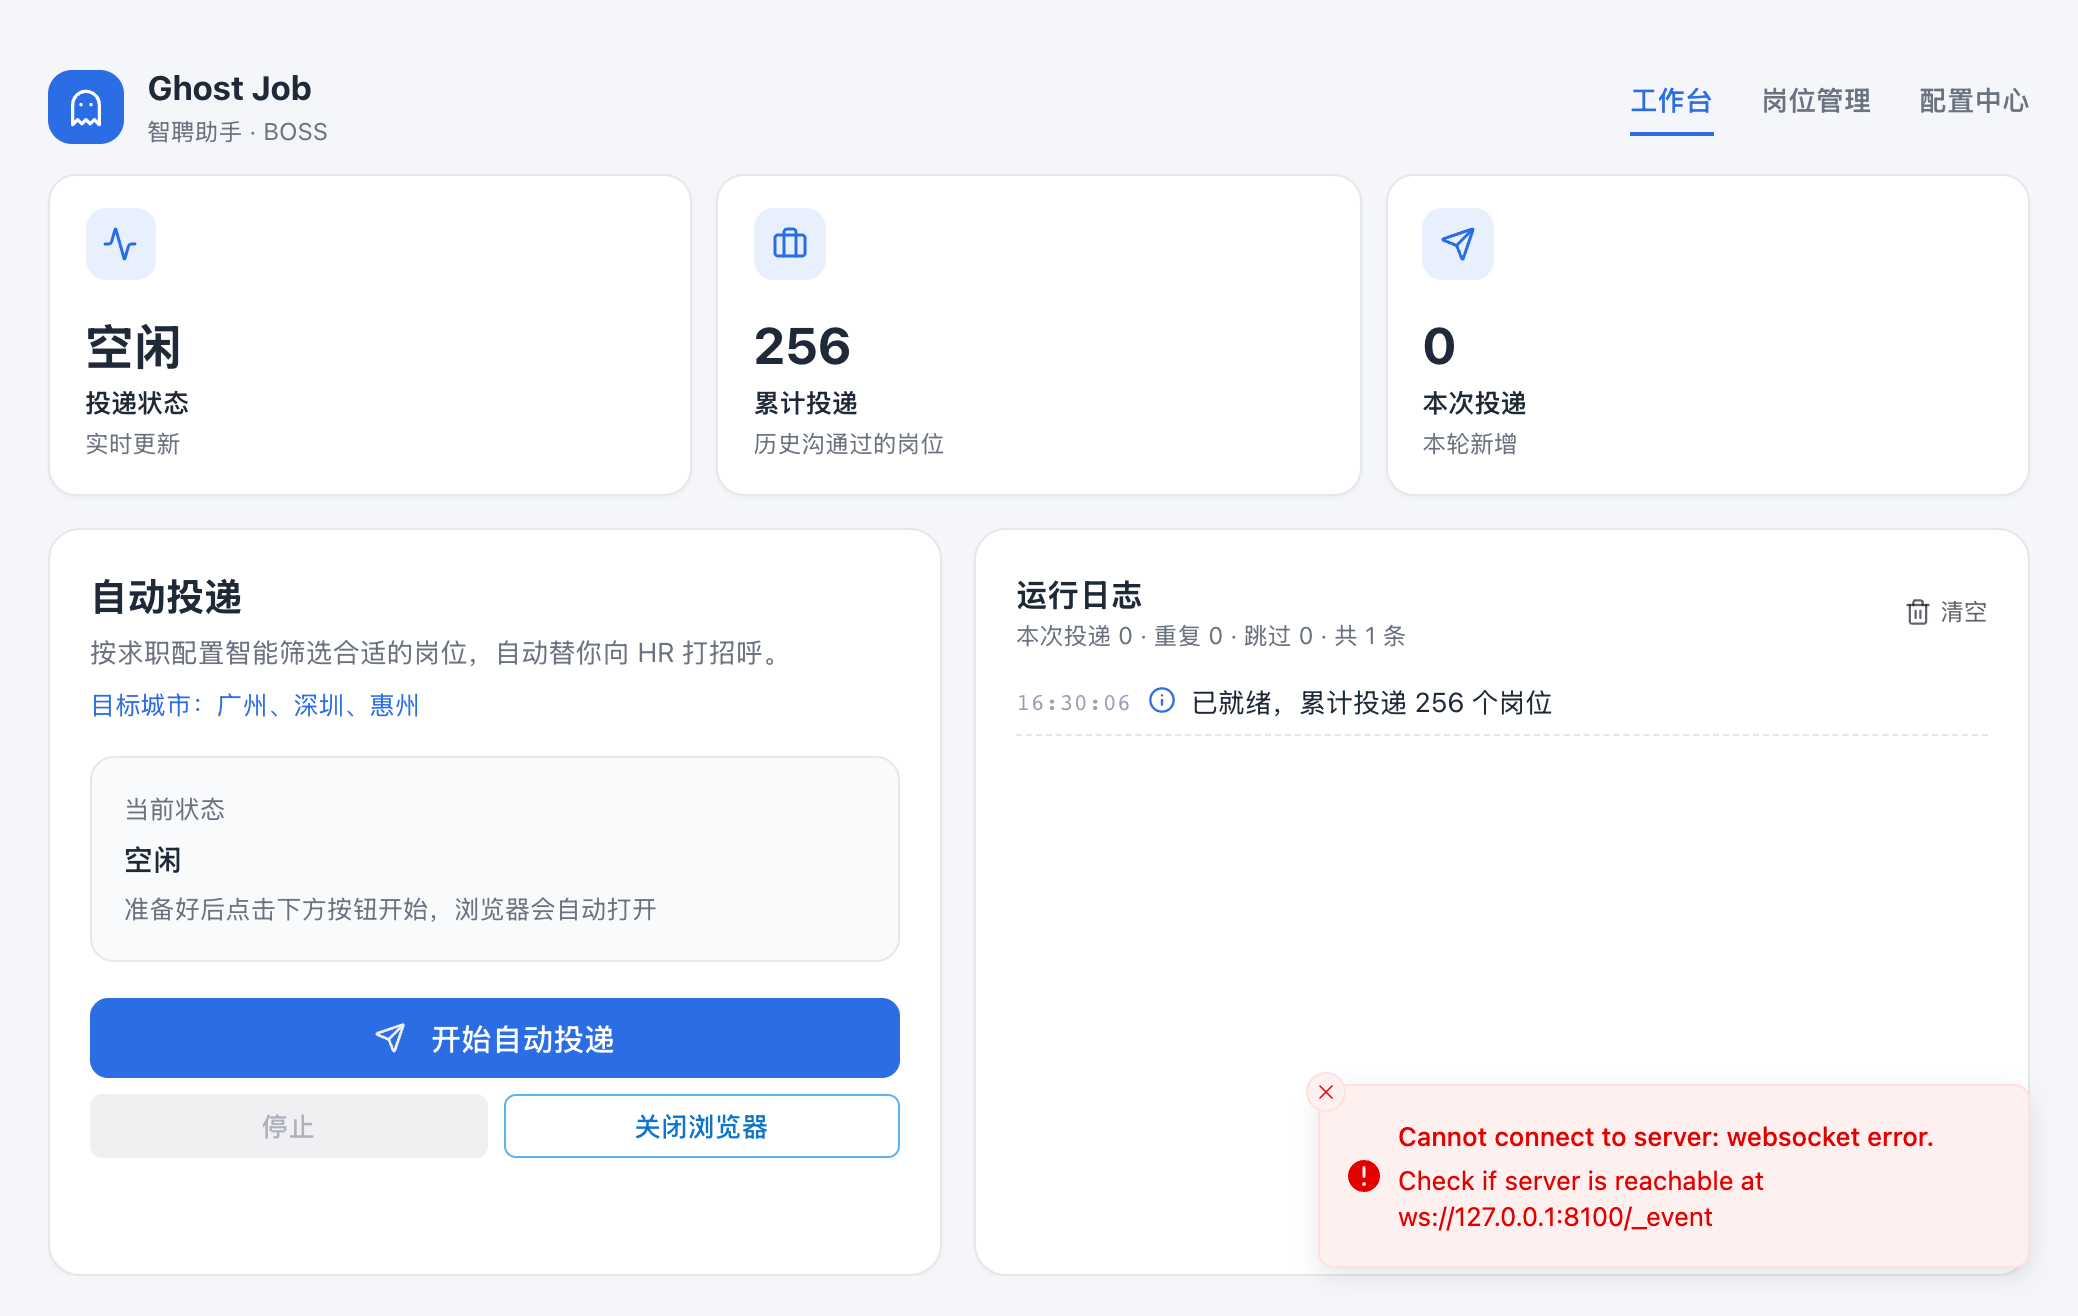
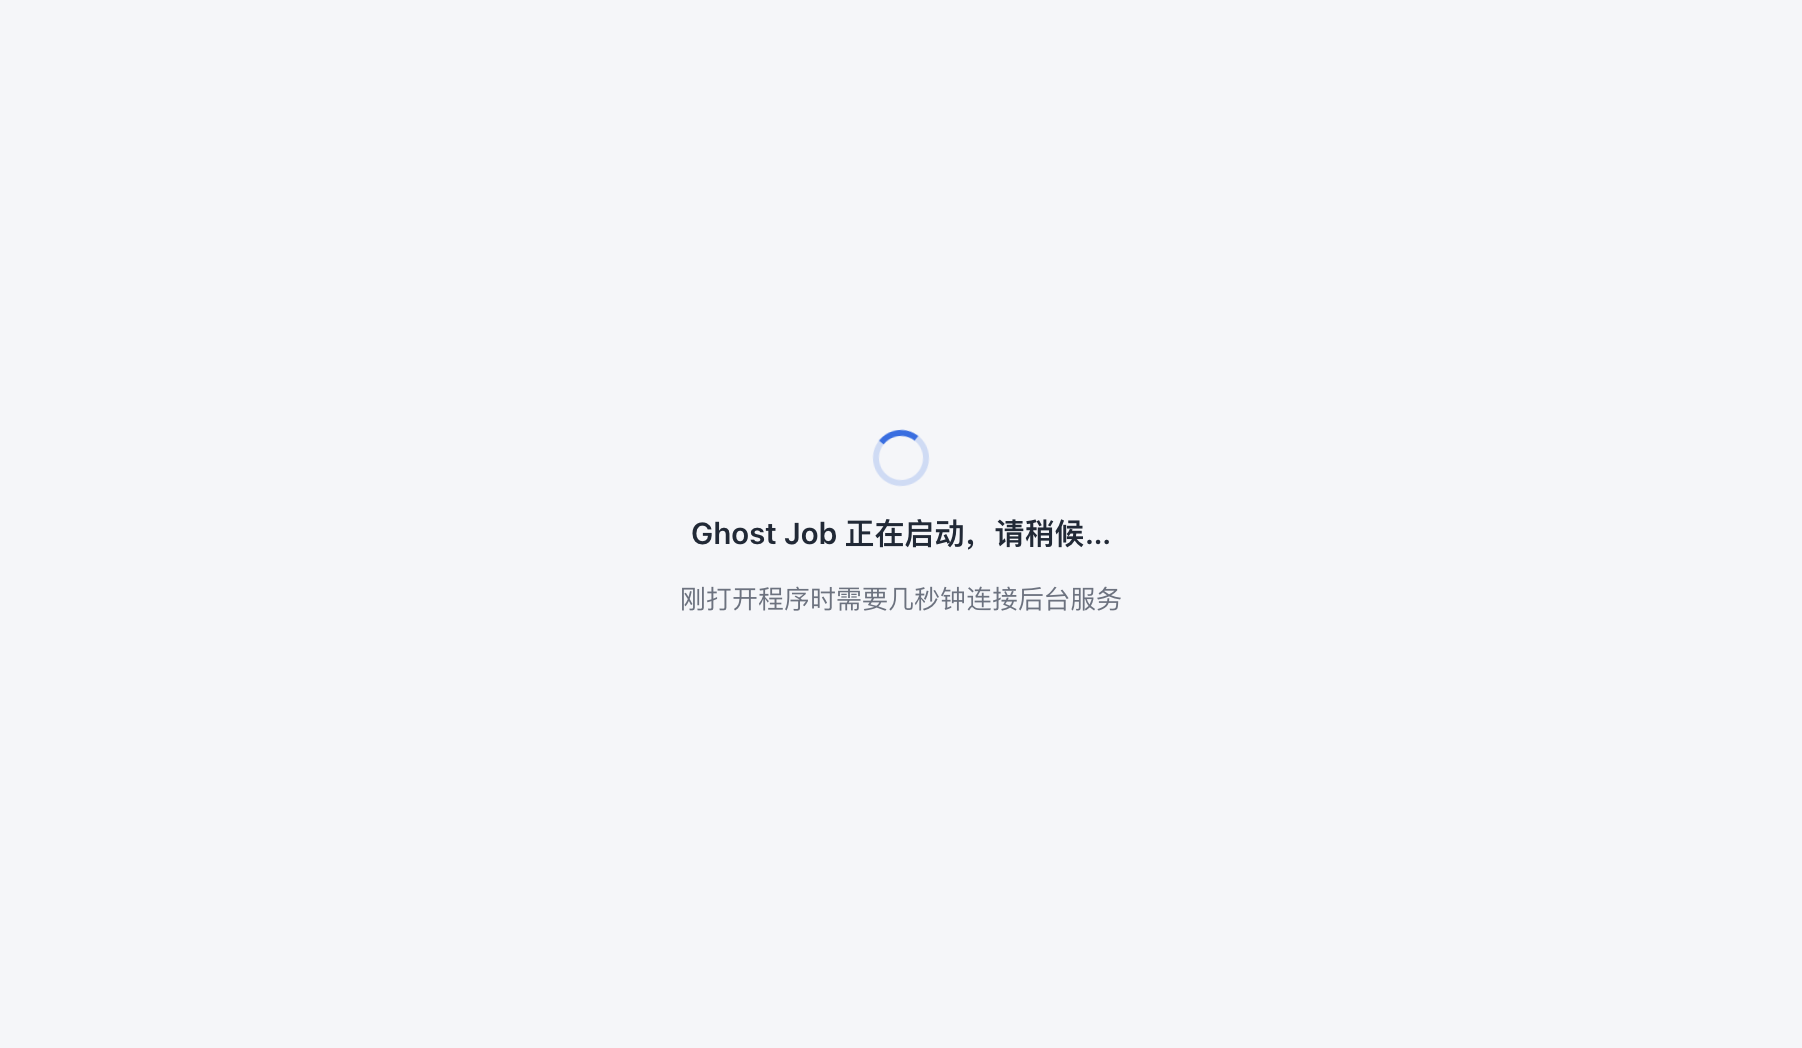
docs: 更新启动提示 FAQ 截图，新增 Windows 缺少 python312.dll 的处理方法

diff --git a/README.md b/README.md
@@ -231,13 +231,30 @@ v0.2.0 调整了本地数据结构。升级前请先退出 Ghost Job，删除用
 **每天能投多少个？**
 BOSS 直聘每天约 150 次沟通上限，Ghost Job 会在达到上限时自动停止。
 
-**打开后右下角提示「Cannot connect to server」怎么办？**
-这是正常现象，不用重装。Ghost Job 每次启动都要在后台加载 AI 和数据服务，加载完成前界面连不上，就会出现这个提示。一般等 1～3 分钟会自动消失，电脑配置越好越快。提示消失后就可以正常使用。
+**打开后显示「Ghost Job 正在启动，请稍候…」怎么办？**
+这是正常现象，不用重装。Ghost Job 每次启动都要在后台加载 AI 和数据服务，加载完成前会先显示这个启动页，加载完后自动进入工作台，一般几秒到 1 分钟，电脑配置越好越快。旧版本在这时会在右下角提示「Cannot connect to server」，同样等一会儿就会消失。如果等了 3 分钟以上还没进入，请关闭程序重新打开；仍然不行的话，请带上日志提 Issue。
 
 ![启动中](assets/screenshots/backend-connecting.png)
 
 **支持哪些系统？**
 已在 Windows 10 / 11 和 macOS 上测试可正常使用。不支持 Windows 7。Linux 提供了安装包，但尚未完整测试，遇到问题欢迎反馈。
+
+**Windows 打开时提示缺少 `python312.dll` 怎么办？**
+这是电脑里的 Python 环境冲突导致的，不是安装包损坏。常见情况是之前用 Python 官网安装包装过其他版本的 Python（例如 3.13），系统环境变量里的 Python 路径干扰了 Ghost Job 自带的运行环境。如果你平时需要使用 Python，建议改用 [uv](https://docs.astral.sh/uv/) 管理 Python，让各个 Python 版本互相隔离：
+
+1. 在「设置 → 应用」里卸载用官网安装包装的 Python，并检查「系统属性 → 环境变量」，删除 `Path` 里残留的 Python 路径，以及 `PYTHONHOME`、`PYTHONPATH` 变量（如果有）
+2. 打开 PowerShell，安装 uv：
+
+   ```powershell
+   powershell -ExecutionPolicy ByPass -c "irm https://astral.sh/uv/install.ps1 | iex"
+   ```
+
+   国内网络下载慢的话，也可以到 [GitHub Releases](https://github.com/astral-sh/uv/releases) 下载 `uv-x86_64-pc-windows-msvc.zip`，解压后把 `uv.exe` 所在目录加入 `Path`
+3. 关闭并重新打开 PowerShell，运行 `uv --version`，能看到版本号就说明安装成功
+4. 以后需要 Python 时用 uv 安装，例如 `uv python install 3.13`，它不会修改系统环境变量，也就不会再影响 Ghost Job
+5. 重新打开 Ghost Job 即可正常使用
+
+更多安装方式见 [uv 官方安装文档](https://docs.astral.sh/uv/getting-started/installation/)。
 
 **macOS 提示「无法验证开发者」怎么办？**
 在应用上右键选择「打开」，或前往「系统设置 → 隐私与安全性」点击「仍要打开」。
